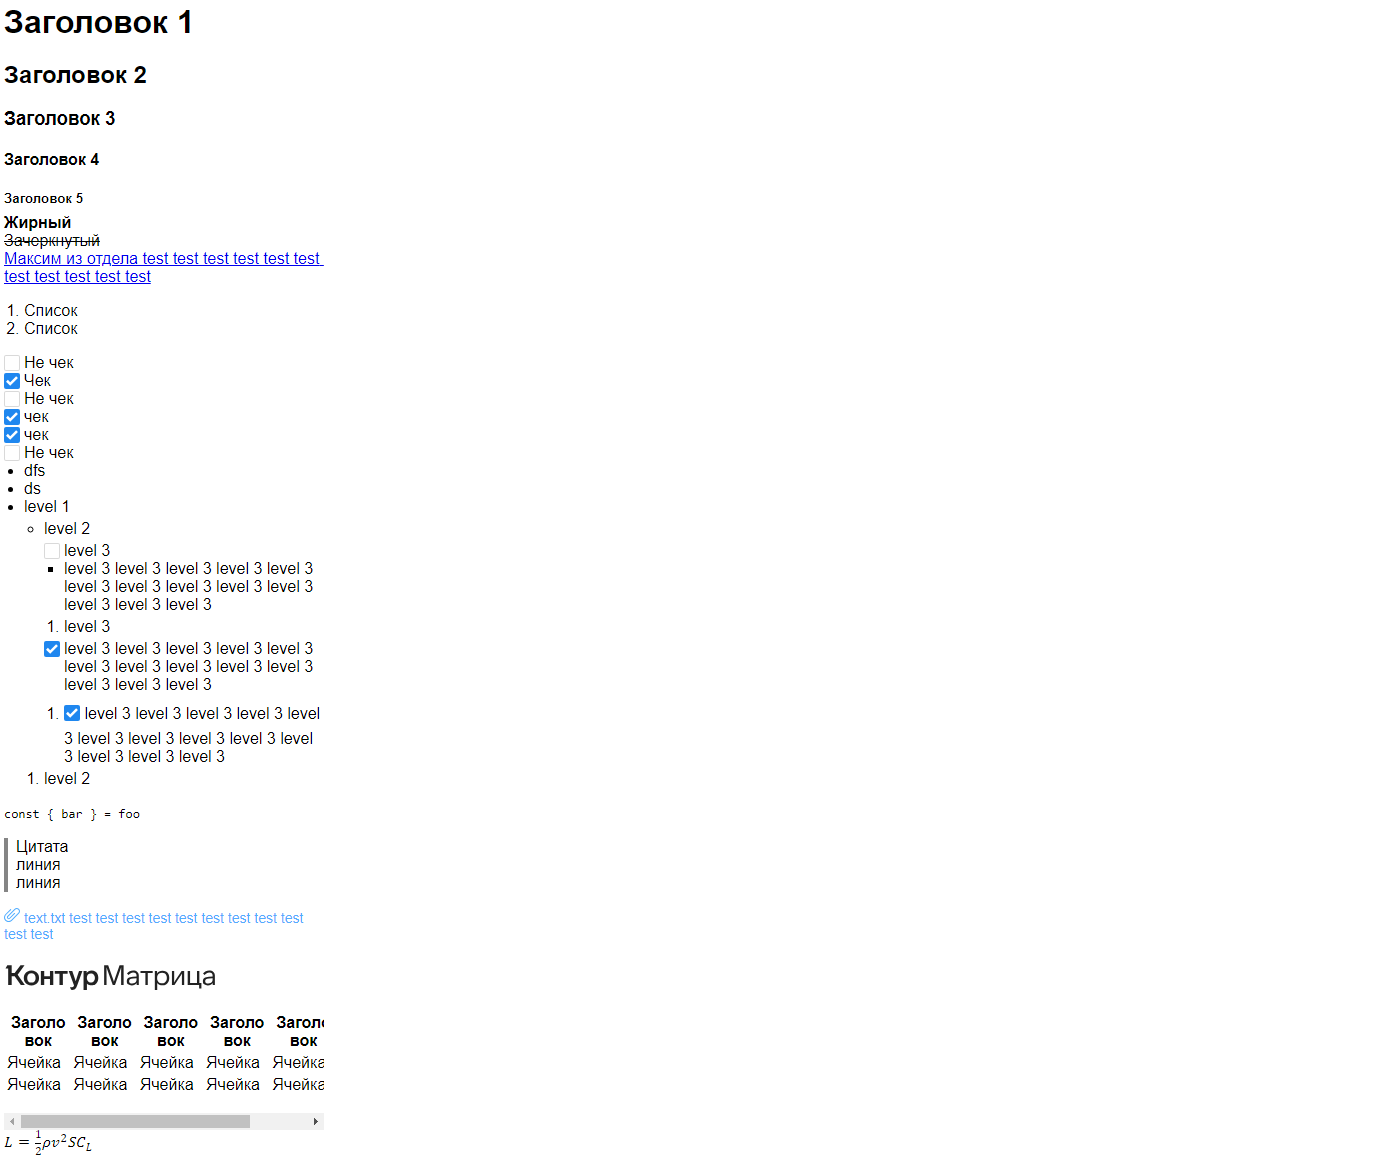
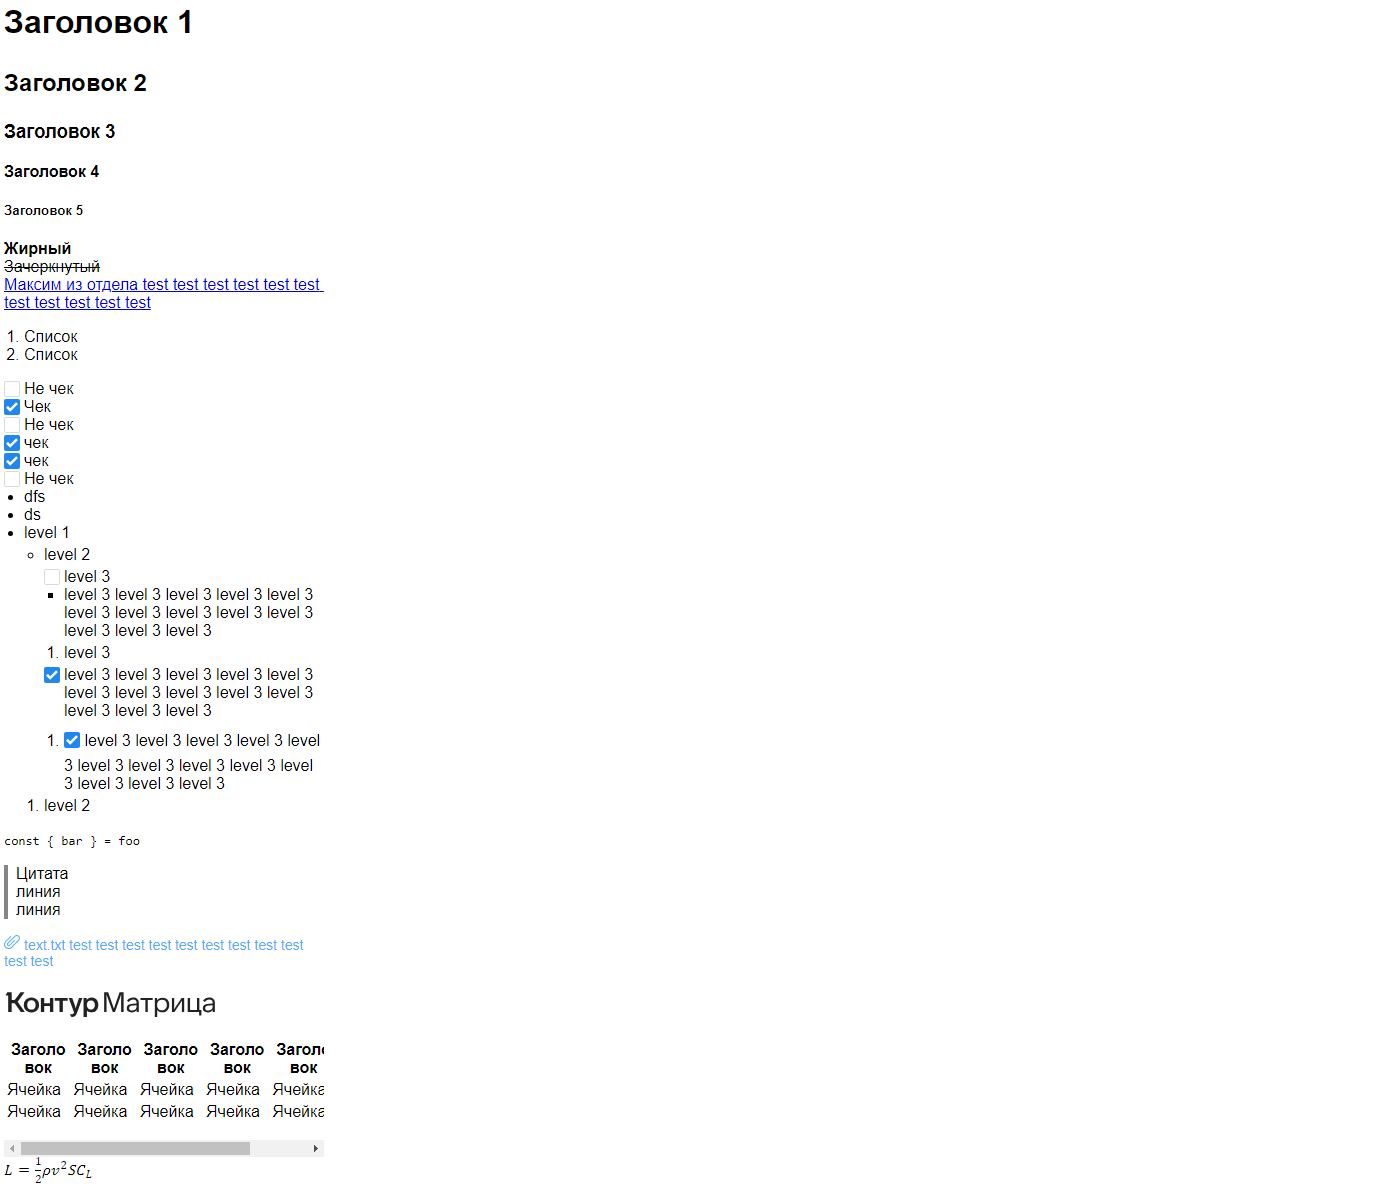
More beautiful headers style

Changed region(s): [[0.0, 0.0613, 0.2473, 0.9804], [0.0, 0.0, 0.1237, 0.0306]]

diff --git a/src/MarkdownViewer/MarkdownViewer.styles.ts b/src/MarkdownViewer/MarkdownViewer.styles.ts
@@ -45,12 +45,24 @@ export const Wrapper = styled.div`
     }
   }
 
-  h1,
-  h2,
-  h3,
-  h4,
-  h5 {
-    margin-bottom: 8px;
+  h1 {
+    margin-top: 28px;
+    margin-bottom: 28px;
+  }
+
+  h2 {
+    margin-top: 24px;
+    margin-bottom: 24px;
+  }
+
+  h3 {
+    margin-top: 20px;
+    margin-bottom: 20px;
+  }
+
+  h4 {
+    margin-top: 16px;
+    margin-bottom: 16px;
   }
 
   img {
